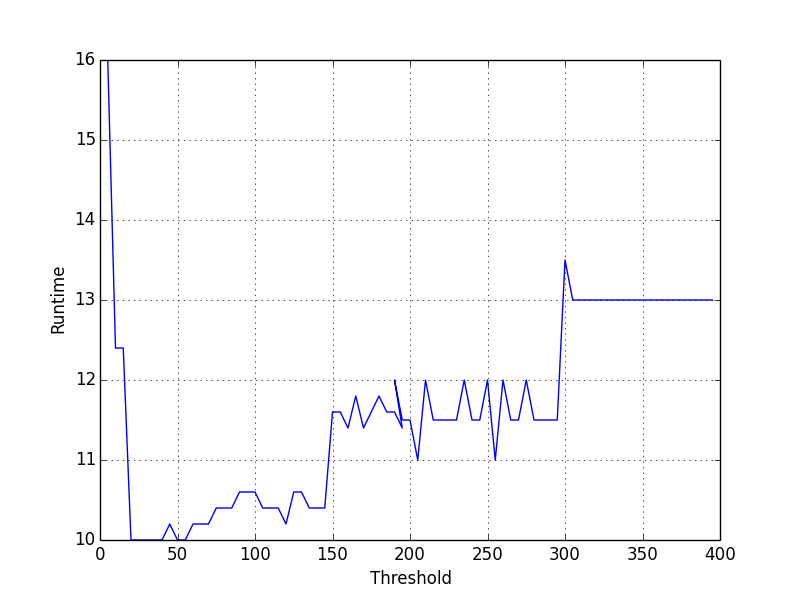
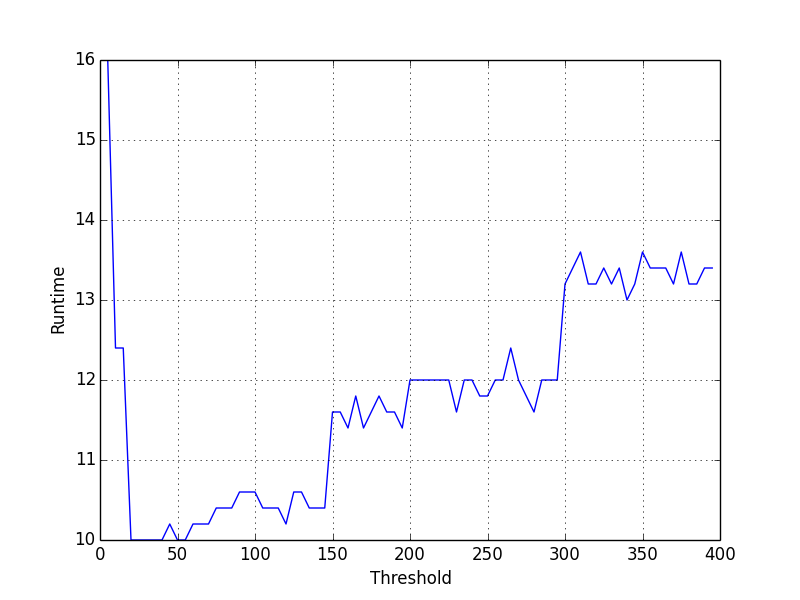
data files

Changed region(s): [[0.5, 0.57, 0.7188, 0.75], [0.6875, 0.42, 0.875, 0.51], [0.7812, 0.42, 0.8125, 0.45]]

diff --git a/prog2/data/plot.py b/prog2/data/plot.py
@@ -1,24 +1,15 @@
 import matplotlib.pyplot as plt
 import csv
 
-dim = 1000
+dim = 800
 
-filename = "T005-195/d%i.csv" % (dim)
+filename = "d%i.csv" % (dim)
 
 f = open(filename)
 csv_f = csv.reader(f)
 
 threshold = []
 runtime = []
-
-for row in csv_f:
-	threshold.append(row[0])
-	runtime.append(row[1])
-
-filename = "T190-400/d%i.csv" % (dim)
-
-f = open(filename)
-csv_f = csv.reader(f)
 
 for row in csv_f:
 	threshold.append(row[0])
